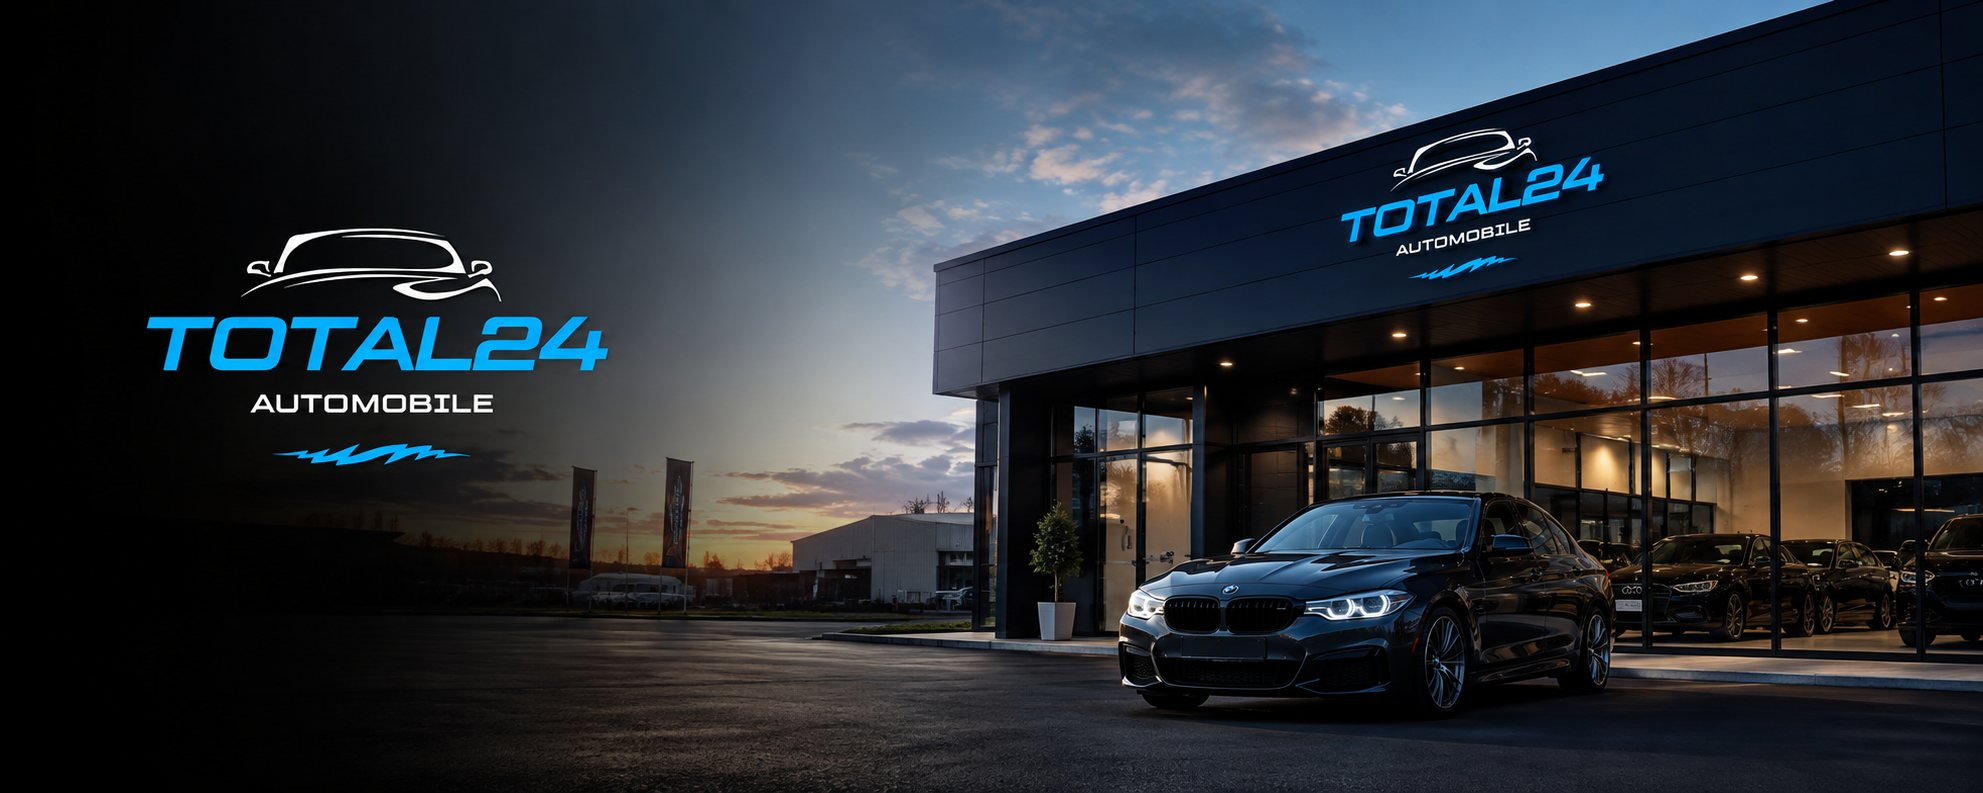
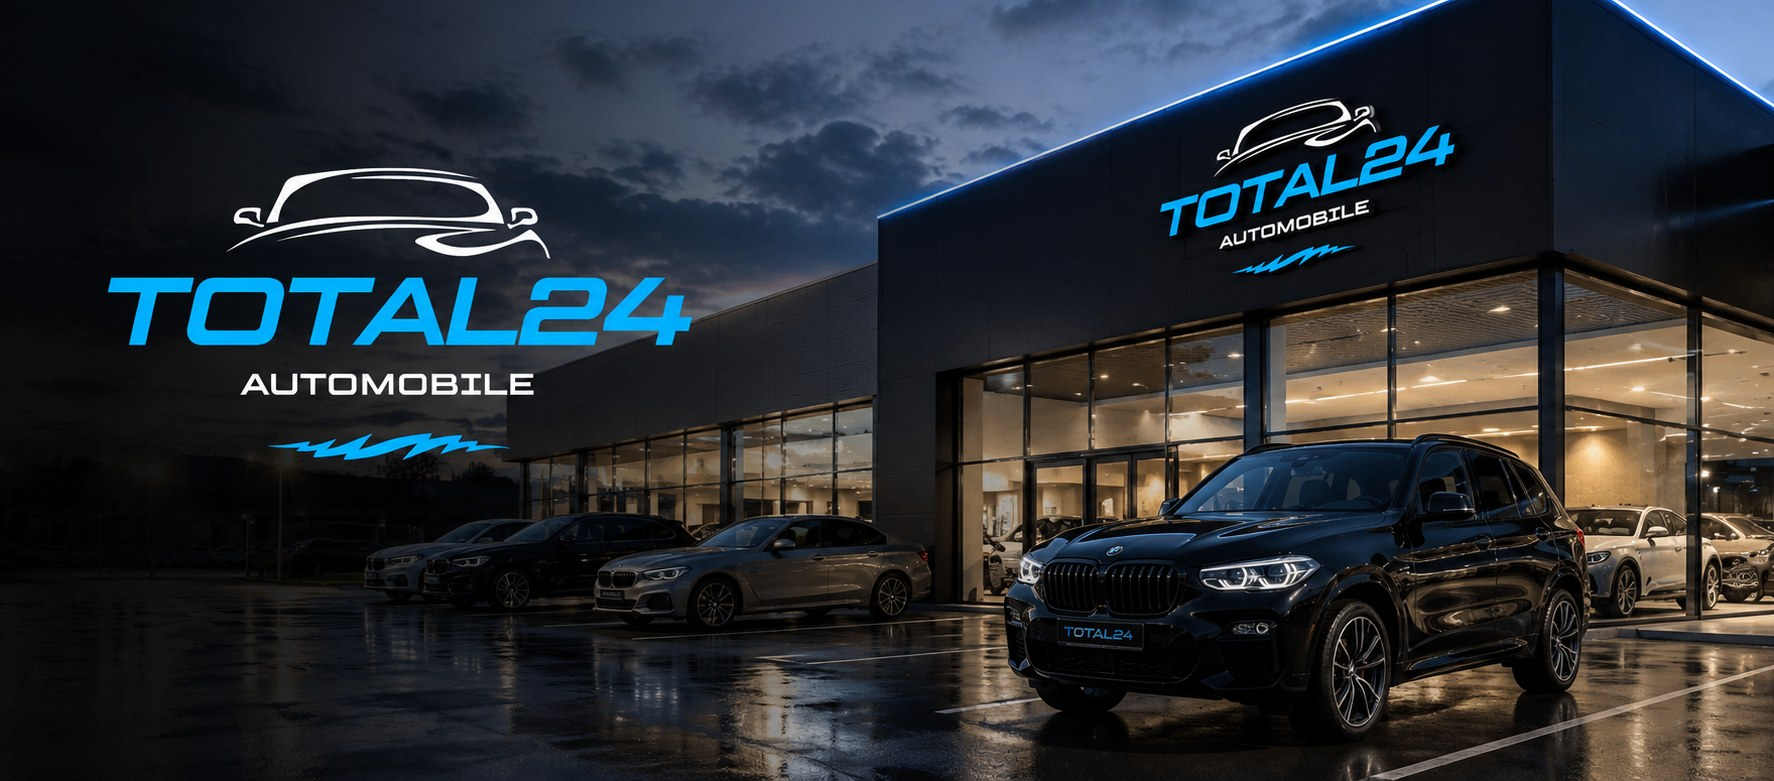
Auto-sync Total24 Automobile

diff --git a/assets/css/style.css b/assets/css/style.css
@@ -143,7 +143,7 @@ h1, h2, h3, h4 { font-family: var(--font-head); font-weight: 700; line-height: 1
 .header.is-stuck { box-shadow: 0 6px 24px rgba(10,33,48,.28); }
 .nav { display: flex; align-items: center; justify-content: space-between; height: 60px; }
 .logo { display: flex; align-items: center; }
-.logo-img { height: 40px; width: auto; max-width: 176px; object-fit: contain; display: block; }
+.logo-img { height: 46px; width: auto; max-width: 190px; object-fit: contain; display: block; }
 .footer-logo-img { height: 52px; max-width: 210px; }
 .nav-links { display: flex; align-items: center; gap: 22px; }
 .nav-links a { position: relative; display: inline-flex; align-items: center; color: rgba(255,255,255,.8); font-weight: 500; font-size: 13px; letter-spacing: .2px; }
@@ -168,11 +168,11 @@ h1, h2, h3, h4 { font-family: var(--font-head); font-weight: 700; line-height: 1
    ============================================================ */
 .hero-cine {
   position: relative; overflow: hidden; background: #0a1620;
-  height: clamp(440px, 40vw, 620px);   /* 40vw ≈ raportul pozei → scena întreagă, „trasă înapoi", fără decupaj */
+  width: 100%; aspect-ratio: 1774 / 781;   /* raportul pozei noi → poza ÎNTREAGĂ, fundal complet, fără zoom/decupaj */
   display: flex; align-items: center;
 }
 .hero-bg-pic { position: absolute; inset: 0; z-index: 0; display: block; }
-.hero-bg { width: 100%; height: 100%; object-fit: cover; object-position: 68% 50%; }  /* mașina spre dreapta · se fixează definitiv pe asset-ul final */
+.hero-bg { width: 100%; height: 100%; object-fit: cover; object-position: center; }
 /* gradient subtil stânga→dreapta: stânga citibilă, mașinile din dreapta clare */
 .hero-cine::after {
   content: ""; position: absolute; inset: 0; z-index: 1; pointer-events: none;

diff --git a/index.html b/index.html
@@ -15,7 +15,7 @@
   <link rel="preconnect" href="https://fonts.googleapis.com">
   <link rel="preconnect" href="https://fonts.gstatic.com" crossorigin>
   <link href="https://fonts.googleapis.com/css2?family=Inter:wght@400;500;600&family=Manrope:wght@600;700;800&display=swap" rel="stylesheet">
-  <link rel="stylesheet" href="assets/css/style.css?v=38">
+  <link rel="stylesheet" href="assets/css/style.css?v=40">
   <link rel="icon" href="assets/img/brand/favicon.png">
   <link rel="icon" href="assets/img/brand/favicon.svg" type="image/svg+xml">
   <link rel="apple-touch-icon" href="assets/img/brand/favicon-64.png">
@@ -47,7 +47,7 @@
   <section class="hero-cine">
     <picture class="hero-bg-pic">
       <source srcset="assets/img/brand/showroom.webp" type="image/webp">
-      <img class="hero-bg" src="assets/img/brand/showroom.jpg" alt="Total24 Automobile — Showroom in Fürth mit geprüften Fahrzeugen" width="1983" height="793" fetchpriority="high" decoding="async">
+      <img class="hero-bg" src="assets/img/brand/showroom.jpg" alt="Total24 Automobile — Showroom in Fürth mit geprüften Fahrzeugen" width="1774" height="781" fetchpriority="high" decoding="async">
     </picture>
     <div class="container">
       <span class="hero-eyebrow">Autohaus in Fürth · Deutschland</span>

diff --git a/agb.html b/agb.html
@@ -8,7 +8,7 @@
   <link rel="preconnect" href="https://fonts.googleapis.com">
   <link rel="preconnect" href="https://fonts.gstatic.com" crossorigin>
   <link href="https://fonts.googleapis.com/css2?family=Inter:wght@400;500;600&family=Manrope:wght@600;700;800&display=swap" rel="stylesheet">
-  <link rel="stylesheet" href="assets/css/style.css?v=38">
+  <link rel="stylesheet" href="assets/css/style.css?v=40">
   <link rel="icon" href="assets/img/brand/favicon.png">
   <link rel="icon" href="assets/img/brand/favicon.svg" type="image/svg+xml">
   <link rel="apple-touch-icon" href="assets/img/brand/favicon-64.png">

diff --git a/contact.html b/contact.html
@@ -8,7 +8,7 @@
   <link rel="preconnect" href="https://fonts.googleapis.com">
   <link rel="preconnect" href="https://fonts.gstatic.com" crossorigin>
   <link href="https://fonts.googleapis.com/css2?family=Inter:wght@400;500;600&family=Manrope:wght@600;700;800&display=swap" rel="stylesheet">
-  <link rel="stylesheet" href="assets/css/style.css?v=38">
+  <link rel="stylesheet" href="assets/css/style.css?v=40">
   <link rel="icon" href="assets/img/brand/favicon.png">
   <link rel="icon" href="assets/img/brand/favicon.svg" type="image/svg+xml">
   <link rel="apple-touch-icon" href="assets/img/brand/favicon-64.png">

diff --git a/datenschutz.html b/datenschutz.html
@@ -8,7 +8,7 @@
   <link rel="preconnect" href="https://fonts.googleapis.com">
   <link rel="preconnect" href="https://fonts.gstatic.com" crossorigin>
   <link href="https://fonts.googleapis.com/css2?family=Inter:wght@400;500;600&family=Manrope:wght@600;700;800&display=swap" rel="stylesheet">
-  <link rel="stylesheet" href="assets/css/style.css?v=38">
+  <link rel="stylesheet" href="assets/css/style.css?v=40">
   <link rel="icon" href="assets/img/brand/favicon.png">
   <link rel="icon" href="assets/img/brand/favicon.svg" type="image/svg+xml">
   <link rel="apple-touch-icon" href="assets/img/brand/favicon-64.png">

diff --git a/despre.html b/despre.html
@@ -8,7 +8,7 @@
   <link rel="preconnect" href="https://fonts.googleapis.com">
   <link rel="preconnect" href="https://fonts.gstatic.com" crossorigin>
   <link href="https://fonts.googleapis.com/css2?family=Inter:wght@400;500;600&family=Manrope:wght@600;700;800&display=swap" rel="stylesheet">
-  <link rel="stylesheet" href="assets/css/style.css?v=38">
+  <link rel="stylesheet" href="assets/css/style.css?v=40">
   <link rel="icon" href="assets/img/brand/favicon.png">
   <link rel="icon" href="assets/img/brand/favicon.svg" type="image/svg+xml">
   <link rel="apple-touch-icon" href="assets/img/brand/favicon-64.png">

diff --git a/finantare.html b/finantare.html
@@ -8,7 +8,7 @@
   <link rel="preconnect" href="https://fonts.googleapis.com">
   <link rel="preconnect" href="https://fonts.gstatic.com" crossorigin>
   <link href="https://fonts.googleapis.com/css2?family=Inter:wght@400;500;600&family=Manrope:wght@600;700;800&display=swap" rel="stylesheet">
-  <link rel="stylesheet" href="assets/css/style.css?v=38">
+  <link rel="stylesheet" href="assets/css/style.css?v=40">
   <link rel="icon" href="assets/img/brand/favicon.png">
   <link rel="icon" href="assets/img/brand/favicon.svg" type="image/svg+xml">
   <link rel="apple-touch-icon" href="assets/img/brand/favicon-64.png">

diff --git a/impressum.html b/impressum.html
@@ -8,7 +8,7 @@
   <link rel="preconnect" href="https://fonts.googleapis.com">
   <link rel="preconnect" href="https://fonts.gstatic.com" crossorigin>
   <link href="https://fonts.googleapis.com/css2?family=Inter:wght@400;500;600&family=Manrope:wght@600;700;800&display=swap" rel="stylesheet">
-  <link rel="stylesheet" href="assets/css/style.css?v=38">
+  <link rel="stylesheet" href="assets/css/style.css?v=40">
   <link rel="icon" href="assets/img/brand/favicon.png">
   <link rel="icon" href="assets/img/brand/favicon.svg" type="image/svg+xml">
   <link rel="apple-touch-icon" href="assets/img/brand/favicon-64.png">

diff --git a/masina.html b/masina.html
@@ -8,7 +8,7 @@
   <link rel="preconnect" href="https://fonts.googleapis.com">
   <link rel="preconnect" href="https://fonts.gstatic.com" crossorigin>
   <link href="https://fonts.googleapis.com/css2?family=Inter:wght@400;500;600&family=Manrope:wght@600;700;800&display=swap" rel="stylesheet">
-  <link rel="stylesheet" href="assets/css/style.css?v=38">
+  <link rel="stylesheet" href="assets/css/style.css?v=40">
   <link rel="icon" href="assets/img/brand/favicon.png">
   <link rel="icon" href="assets/img/brand/favicon.svg" type="image/svg+xml">
   <link rel="apple-touch-icon" href="assets/img/brand/favicon-64.png">

diff --git a/servicii.html b/servicii.html
@@ -8,7 +8,7 @@
   <link rel="preconnect" href="https://fonts.googleapis.com">
   <link rel="preconnect" href="https://fonts.gstatic.com" crossorigin>
   <link href="https://fonts.googleapis.com/css2?family=Inter:wght@400;500;600&family=Manrope:wght@600;700;800&display=swap" rel="stylesheet">
-  <link rel="stylesheet" href="assets/css/style.css?v=38">
+  <link rel="stylesheet" href="assets/css/style.css?v=40">
   <link rel="icon" href="assets/img/brand/favicon.png">
   <link rel="icon" href="assets/img/brand/favicon.svg" type="image/svg+xml">
   <link rel="apple-touch-icon" href="assets/img/brand/favicon-64.png">

diff --git a/stoc.html b/stoc.html
@@ -8,7 +8,7 @@
   <link rel="preconnect" href="https://fonts.googleapis.com">
   <link rel="preconnect" href="https://fonts.gstatic.com" crossorigin>
   <link href="https://fonts.googleapis.com/css2?family=Inter:wght@400;500;600&family=Manrope:wght@600;700;800&display=swap" rel="stylesheet">
-  <link rel="stylesheet" href="assets/css/style.css?v=38">
+  <link rel="stylesheet" href="assets/css/style.css?v=40">
   <link rel="icon" href="assets/img/brand/favicon.png">
   <link rel="icon" href="assets/img/brand/favicon.svg" type="image/svg+xml">
   <link rel="apple-touch-icon" href="assets/img/brand/favicon-64.png">

diff --git a/admin.html b/admin.html
@@ -8,7 +8,7 @@
   <link rel="preconnect" href="https://fonts.googleapis.com">
   <link rel="preconnect" href="https://fonts.gstatic.com" crossorigin>
   <link href="https://fonts.googleapis.com/css2?family=Inter:wght@400;500;600&family=Poppins:wght@500;600;700;800&display=swap" rel="stylesheet">
-  <link rel="stylesheet" href="assets/css/style.css?v=38">
+  <link rel="stylesheet" href="assets/css/style.css?v=40">
   <link rel="icon" href="assets/img/brand/favicon.png">
   <style>
     .admin-wrap { padding: 40px 0 80px; }
